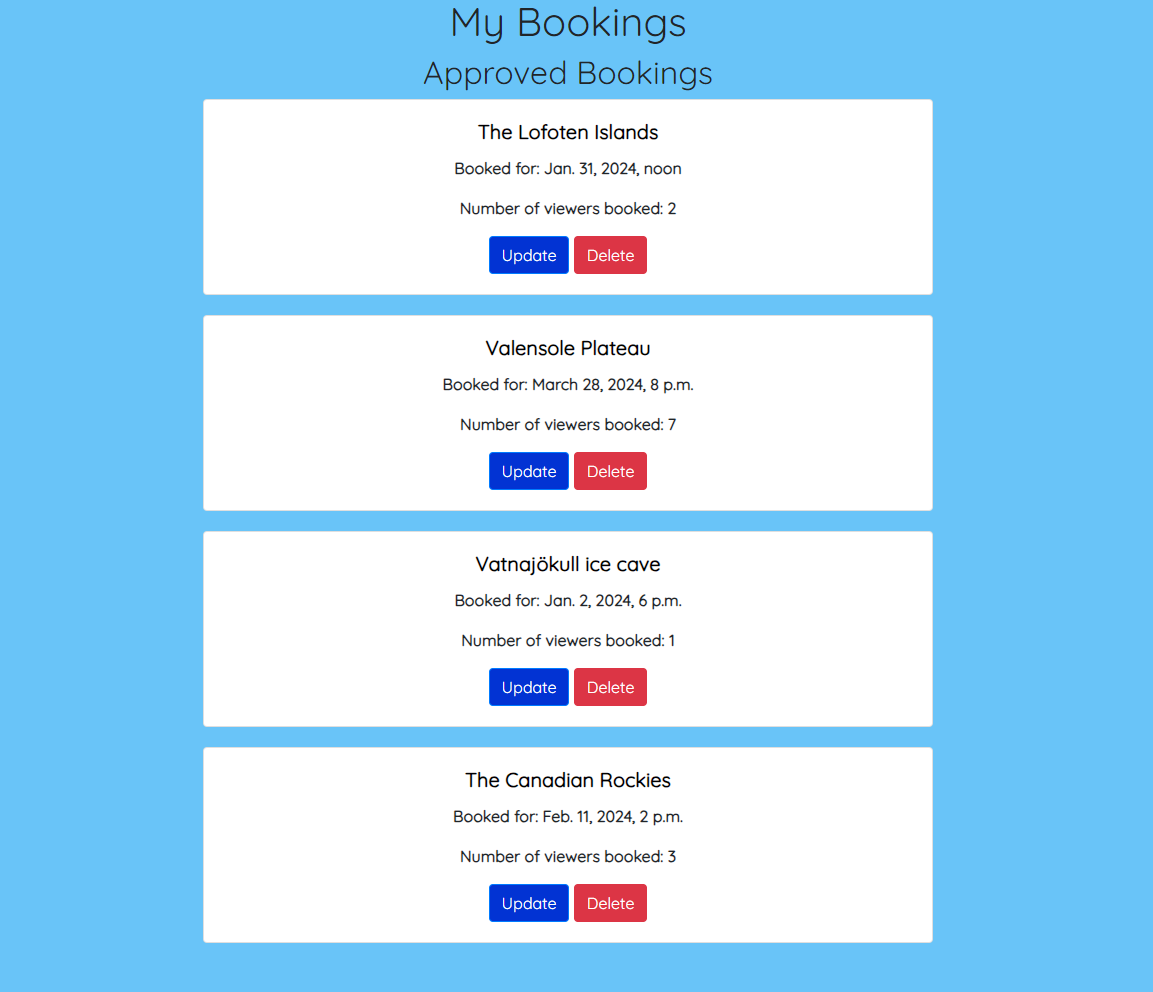
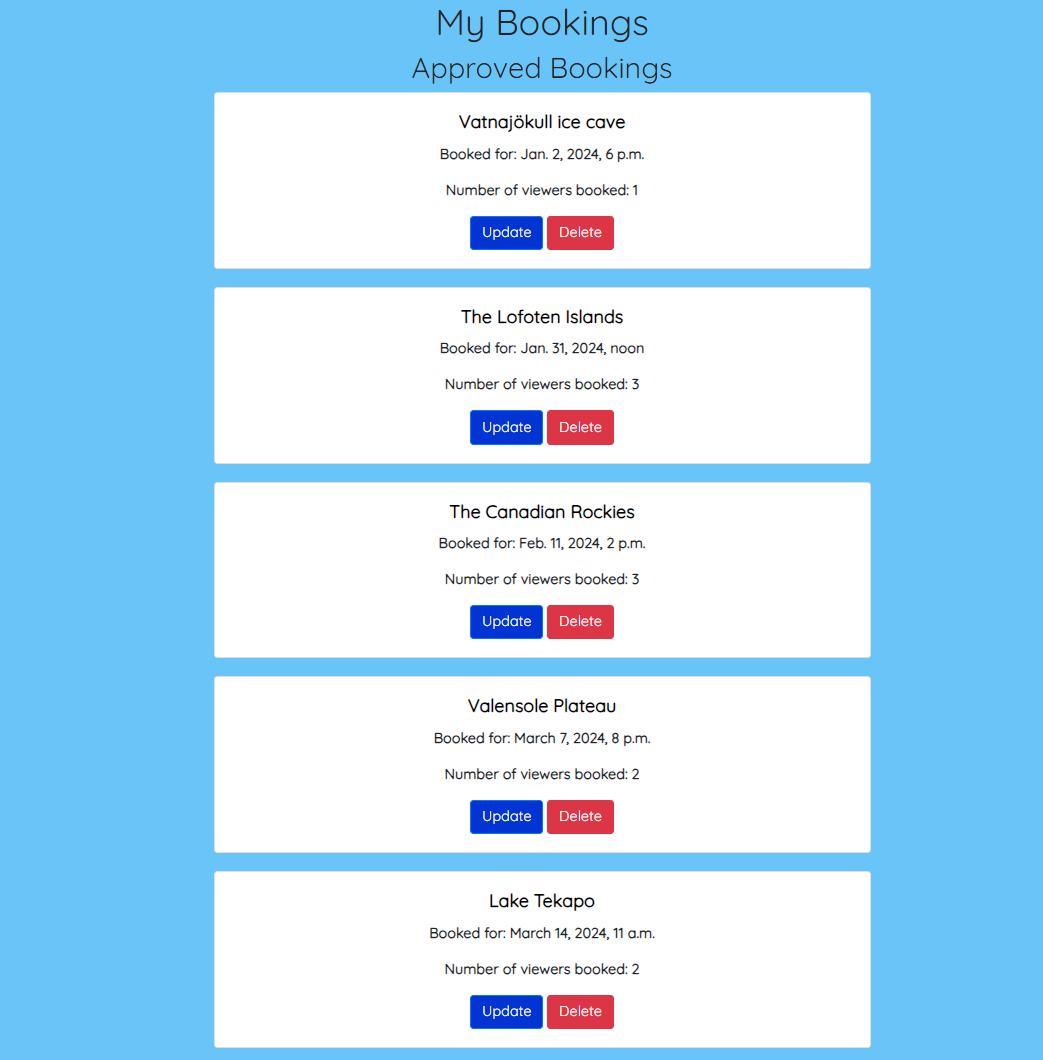
Add booking card order and update screenshot for readme

Changed region(s): [[0.1534, 0.0, 0.8591, 1.0]]

diff --git a/gems/views.py b/gems/views.py
@@ -166,11 +166,15 @@ class UpdateBooking(View):
 class MyBooking(View):
 
     """ For viewing bookings once they have been approved by admin. Delete the
-    booking and the users booking will update to a updated list of bookings"""
+    booking and the users booking will update to a updated list of bookings.
+    Used 'https://stackoverflow.com/questions/47899265/
+    order-by-time-of-a-datetime-field-in-django'
+    to help with ordering the bookings by date and time"""
 
     def get(self, request):
         booking_approved = Booking.objects.filter(
-            user=request.user, approved=True)
+            user=request.user, approved=True).order_by(
+                'webinar__date_and_time')
         if booking_approved:
             return render(request, 'my_bookings.html', {
                 'booking_approved': booking_approved,
